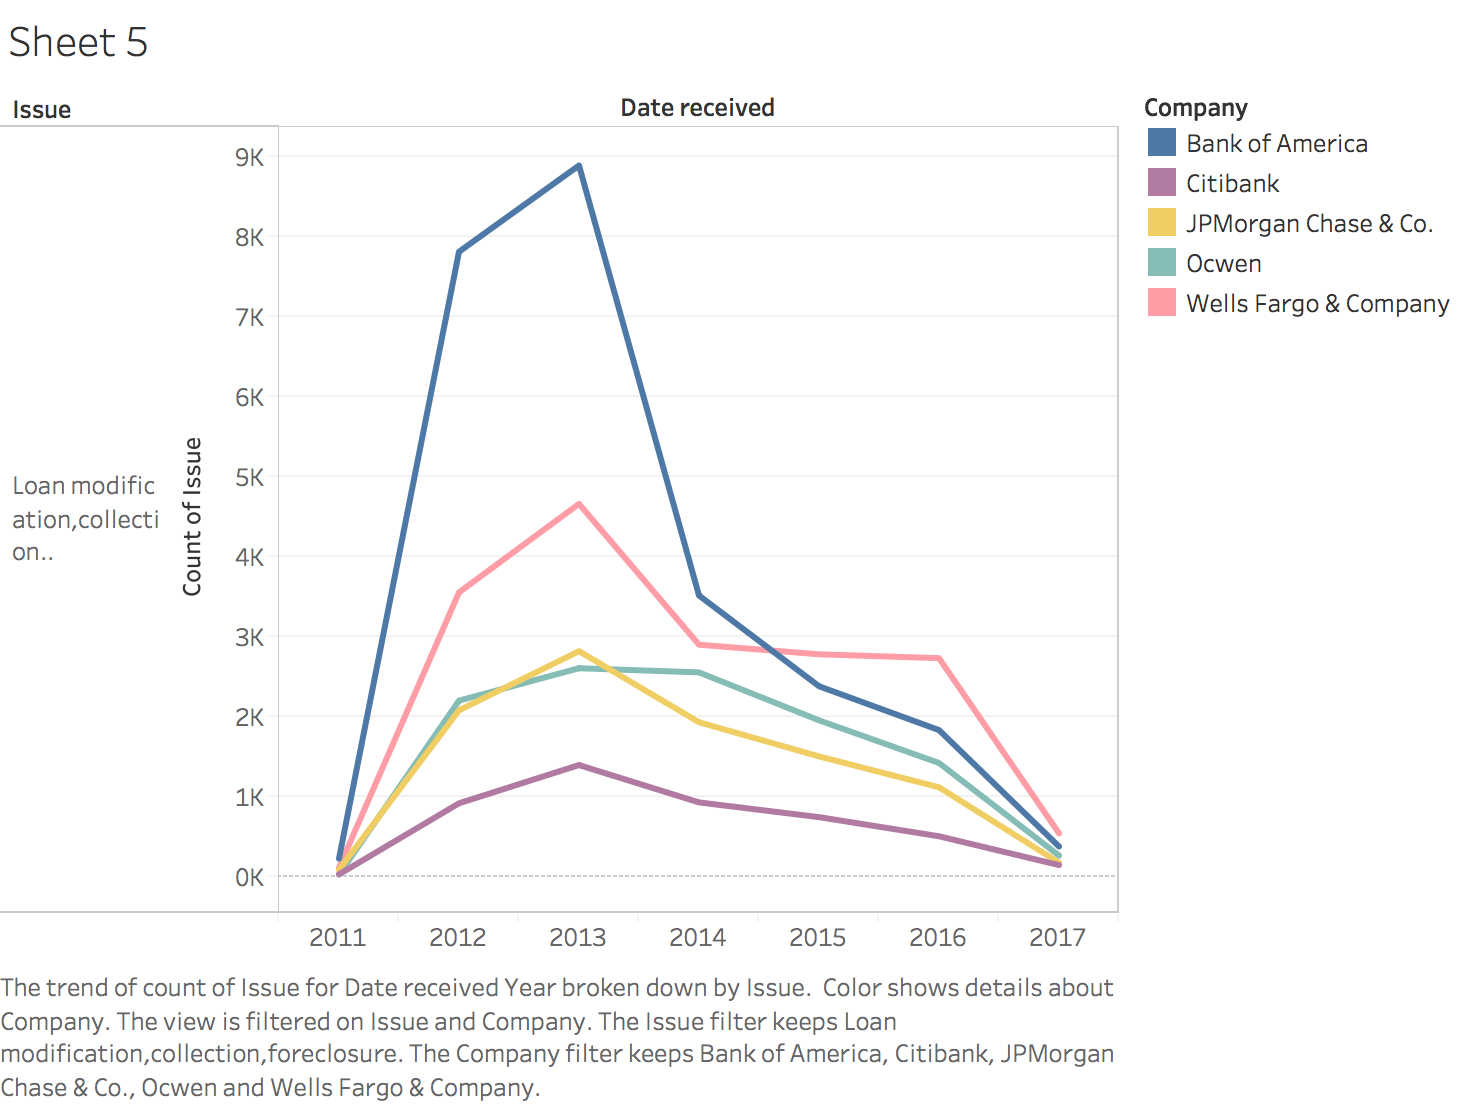
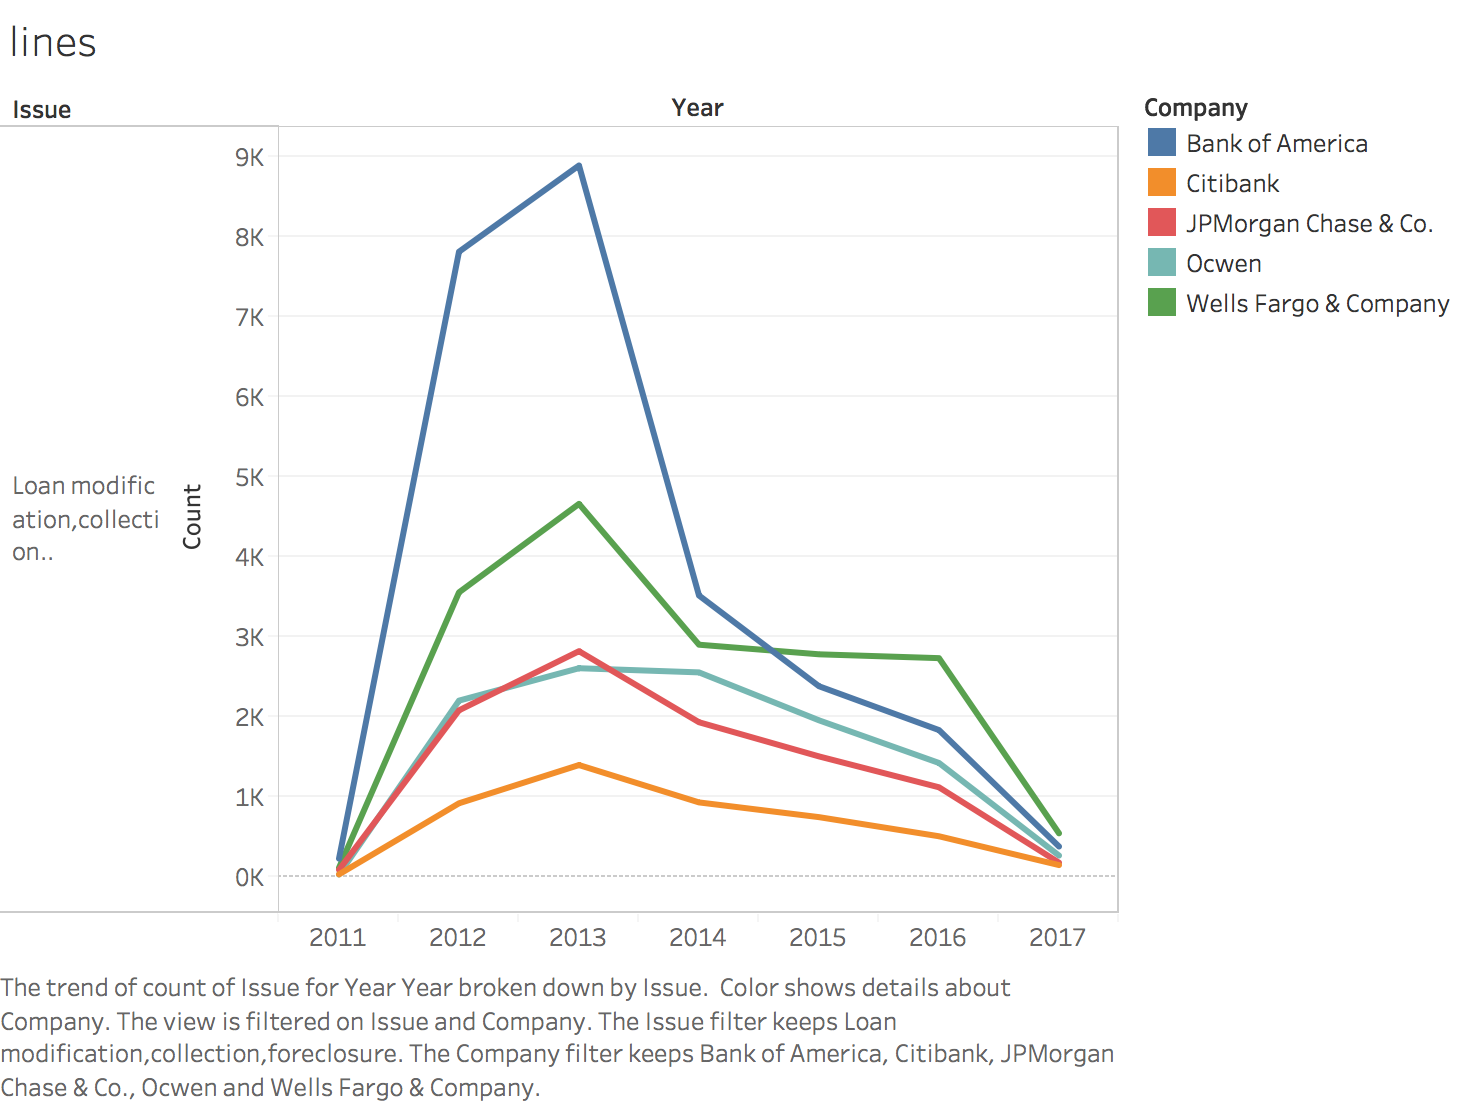
Add files via upload

diff --git a/lines.js b/lines.js
@@ -1,0 +1,118 @@
+// modified code from https://gist.github.com/d3noob/f8b7f107ba25c21971851728520224cb
+
+// Set the dimensions of the canvas / graph
+var margin = {top: 30, right: 20, bottom: 70, left: 50},
+    width = 830 - margin.left - margin.right,
+    height = 600 - margin.top - margin.bottom;
+
+
+
+// set the ranges
+var x = d3.scaleLinear().range([0, width]);
+var y = d3.scaleLinear().range([height, 0]);
+
+// Define the line
+var companyline = d3.line()
+    .x(function(d) { return x(d.Year); })
+    .y(function(d) { return y(d.Count); })
+
+    //console.log(companyline)
+
+    // append the svg obgect to the body of the page
+    // appends a 'group' element to 'svg'
+    // moves the 'group' element to the top left margin
+var svg = d3.select("body")
+    .append("svg")
+        .attr("width", width + margin.left + margin.right)
+        .attr("height", height + margin.top + margin.bottom)
+    .append("g")
+        .attr("transform",
+              "translate(" + margin.left + "," + margin.top + ")");
+
+
+// Get the data
+d3.csv("line.csv", function(error, data) {
+    console.log(data)
+    if (error) throw error;
+    // format the data
+    data.forEach(function(d) {
+      d.Year = +d.Year;
+      //d.Year = parseDate(d.Year);
+      d.Count = +d.Count;
+
+
+      //console.log(data)
+    })
+      ;
+//console.log(data)
+    // Scale the range of the data
+    x.domain(d3.extent(data, function(d) { return d.Year; }));
+    y.domain([0, d3.max(data, function(d) { return d.Count; })]);
+
+    data.sort(function(a, b){return a.Year-b.Year}); // sort data in ascending order
+    //Nest the entries by Company
+    var dataNest = d3.nest()
+        .key(function(d) {return d.Company;})
+        //.key(function(d) { return d.Year; }).sortKeys(d3.ascending)
+        //.rollup(function(v) { return d3.sum(v, function(d) { return d.Count; }); })
+        .entries(data);
+        console.log(dataNest)
+
+        // set the colour scale
+        var color = d3.scaleOrdinal(d3.schemeCategory10);
+        legendSpace = width/(dataNest.length*1.485); // spacing for the legend
+
+        // Loop through each symbol / key
+        dataNest.forEach(function(d,i) {
+          if (error) throw error;
+            svg.append("path")
+                .attr("class", "line")
+                //.attr("d", companyline(d.values))
+                //.style("stroke", "orange");
+                .style("stroke", function() { // Add the colours dynamically
+                    return d.color = color(d.key); })
+                .attr("d", companyline(d.values));
+// console.log(d.values)
+            // Add the Legend
+            svg.append("text")
+                .attr("x", (legendSpace/30)+i*1.765*legendSpace)  // space legend
+                .attr("y", height + (margin.bottom/2)+ 15)
+                .attr("class", "legend")    // style the legend
+                .style("fill", function() { // Add the colours dynamically
+                    return d.color = color(d.key); })
+                .text(d.key);
+
+
+    // Add the X Axis
+    svg.append("g")
+        //.attr("class", "axis")
+        .attr("transform", "translate(0," + height + ")")
+        .call(d3.axisBottom(x))
+        ;
+
+    // text label for the x axis
+svg.append("text")
+    .attr("transform",
+          "translate(" + (width/2) + " ," +
+                         (height + margin.top + 3) + ")")
+    .style("text-anchor", "middle")
+    .text("Year");
+
+    // Add the Y Axis
+    svg.append("g")
+    //.attr("class", "axis")
+    .call(d3.axisLeft(y));
+
+
+    // text label for the y axis
+  svg.append("text")
+      .attr("transform", "rotate(-90)")
+      .attr("y", 0 - margin.left)
+      .attr("x",0 - (height / 2))
+      .attr("dy", "1em")
+      .style("text-anchor", "middle")
+      .text("Count");
+
+
+});
+});

diff --git a/style.css b/style.css
@@ -3,7 +3,7 @@
 
 
 
-
+/*
 .states :hover {
   fill: red;
 }
@@ -15,4 +15,38 @@
   stroke-linejoin: round;
   stroke-linecap: round;
   pointer-events: none;
+}*/
+
+/*body {
+  font: 12px sans-serif;
+}
+
+.axis path,
+.axis line {
+  fill: none;
+  stroke: none;
+  shape-rendering: crispEdges;
+}
+
+.browser text {
+  text-anchor: end;
+}*/
+
+body { font: 12px Arial;}
+path {
+
+    stroke-width: 2;
+    fill: none;
+}
+.axis path,
+.axis line {
+    fill: none;
+    stroke: grey;
+    stroke-width: 1;
+    shape-rendering: crispEdges;
+}
+.legend {
+    font-size: 16px;
+    font-weight: bold;
+    text-anchor: middle;
 }
